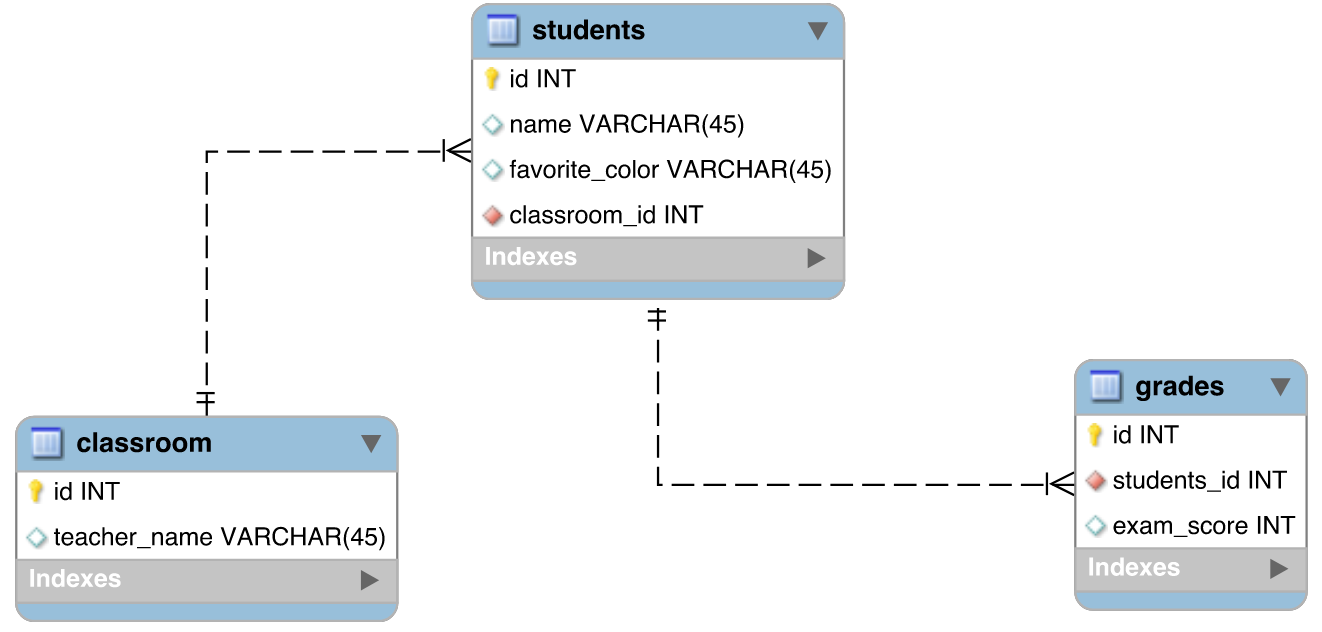
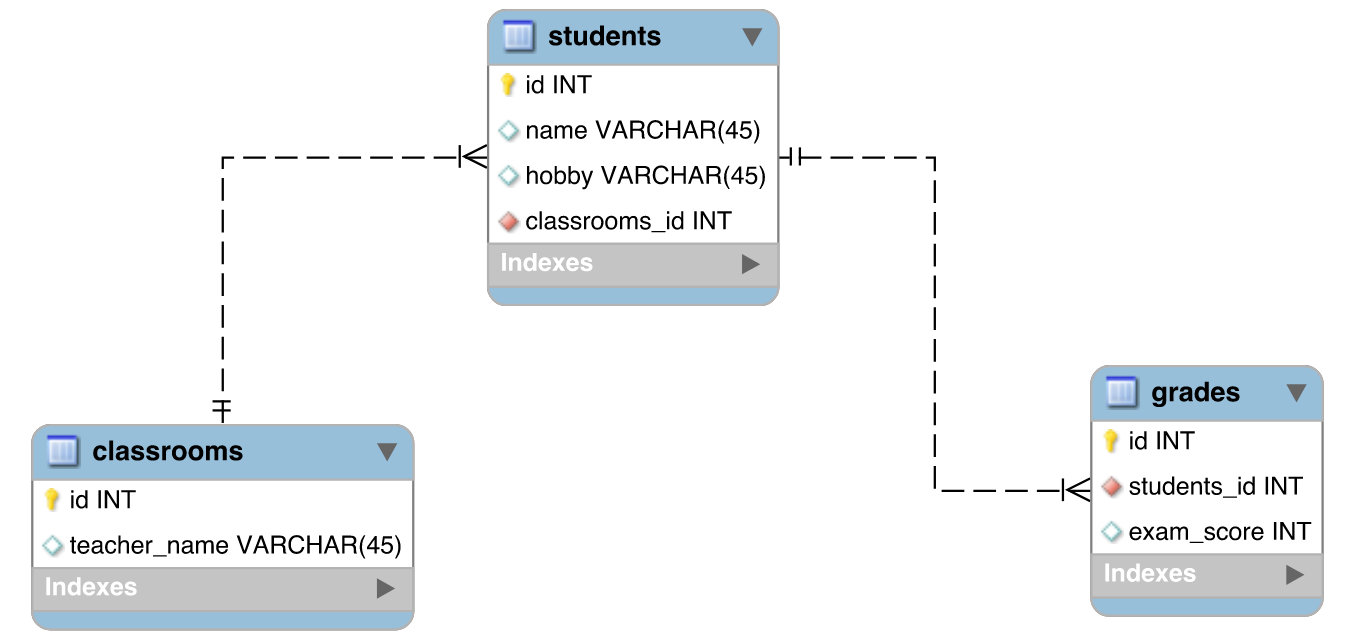
Work on SQL intro

diff --git a/_posts/python/2021-03-26-SQL_vs_NoSQL.md b/_posts/python/2021-03-26-SQL_vs_NoSQL.md
@@ -4,34 +4,40 @@ title: SQL vs. NoSQL databases in Python
 author: matt_sosna
 ---
 
-From ancient government, library, and medical records to present-day video and [IoT streams](https://en.wikipedia.org/wiki/Internet_of_things), we have always needed ways to efficiently store and retrieve data. Yesterday's filing cabinets have become today's computer [**databases**](https://www.oracle.com/database/what-is-database/), with two major paradigms for how to best organize data: the *structured* (SQL) versus *unstructured* (NoSQL) approach.
+From ancient government, library, and medical records to present-day video and [IoT streams](https://en.wikipedia.org/wiki/Internet_of_things), we have always needed ways to efficiently store and retrieve data. Yesterday's filing cabinets have become today's computer [**databases**](https://www.oracle.com/database/what-is-database/), with two major paradigms for how to best organize data: the *structured* (relational) versus *unstructured* (non-relational) approach.
 
 Databases are essential for any organization, so it's useful to wrap your head around where each type is useful. We'll start with a brief primer on the history and theory behind SQL and NoSQL. But memorizing abstract facts can only get you so far $-$ we'll then actually create each type of database in Python to get a hands-on intuition for how they work. Let's do it!
 
 ## A time series of databases
-Databases arrived shortly after businesses [began adopting computers in the 1950s](https://www.dataversity.net/brief-history-database-management/), but it wasn't until 1970 that **relational** databases appeared. The main idea with a relational database is to avoid duplicating data by storing it *only once*, with different aspects of that data stored in tables with formal *relationships.*
+### Relational databases
+Databases arrived shortly after businesses [began adopting computers in the 1950s](https://www.dataversity.net/brief-history-database-management/), but it wasn't until 1970 that **relational** databases appeared. The main idea with a relational database is to avoid duplicating data by storing it *only once*, with different aspects of that data stored in *tables* with formal *relationships.* The relevant data can then be extracted from different tables, filtered, and rearranged with queries in SQL, or [Structured Query Language](https://en.wikipedia.org/wiki/SQL).
 
-Say we're a school and are organizing our data. We have data on the students themselves, their grades, and their classrooms. We *could* have one giant table that looks something like this:
+Say we're a school and are organizing our data on the students, their grades, and their classrooms. We *could* have one giant table that looks like this:
 
-<img src="{{  site.baseurl  }}/images/projects/sql_v_nosql/data_table.png" loading="lazy" alt="Table of data">
+<img src="{{  site.baseurl  }}/images/projects/sql_v_nosql/main_table.png" loading="lazy" alt="Table of data">
 
-But notice how most of the cells are duplicated info. Because students have multiple exam scores, storing all the data in one table results in duplicating all the other info that we only need to list once. (Unless you really want to see four copies of Jerry's favorite color, his classroom ID, and his classroom teacher.)
+This is a pretty inefficient way to store data, though. Because students have multiple exam scores, **storing all the data in one table requires duplicating info we only need to list once,** like Jerry's hobby, classroom ID, and teacher. If you only have a handful of students, it's no big deal. But as the amount of data grows, all those duplicated values end up costing storage space and making it harder to extract the data you actually want from your table.
 
-If you only have a handful of students, it's no big deal. But as the amount of data grows, all those duplicated values will end up costing storage space and making it harder to extract the data you actually want from your table.
+Instead, it'd be far more efficient to break out this information into separate *tables*, then *relate* the info in the tables to one another. This is what our tables would look like:
 
-Instead, it'd be far more efficient to break out this information into separate *tables*, then *relate* the info in the tables to one another. Here is an [entity-relationship diagram](https://www.visual-paradigm.com/guide/data-modeling/what-is-entity-relationship-diagram/) for a simple relational database with our data in separate tables.
+<img src="{{  site.baseurl  }}/images/projects/sql_v_nosql/multi_table.png" loading="lazy" alt="Multiple tables">
+
+That's only 30 cells compared to 42 in the main table $-$ **a 28.5% improvement!** For this particular set of fields and tables, as we increase the number of students, say to 100 or 1,000 or 1,000,000, the improvement actually stabilizes at **38%.** That's more than a third less storage space just by rearranging the data!
+
+But it's not enough to just store the data in separate tables; we still need to model their relationships. We can show this with an [entity-relationship diagram](https://www.visual-paradigm.com/guide/data-modeling/what-is-entity-relationship-diagram/) like the one below. This diagram shows that one classroom consists of multiple students, and each student has multiple grades.
 
 <img src="{{  site.baseurl  }}/images/projects/sql_v_nosql/erd.png" loading="lazy" alt="Entity-Relationship Diagram">
+
+### Nonrelational databases
+SQL databases are great. However, relational databases operate on the [assumption of a single server](https://www.cockroachlabs.com/blog/history-of-databases-distributed-sql/). Painful to scale.
+
+Relational = vertical scaling (add more compute to the server). Nonrelational scaling = horizontal.
 
 
 NoSQL apparently only since 2009?
 > Johan Oskarsson had organised a meetup to discuss distributed non-relational databases. To popularise this meetup, he used a hashtag #NoSQL on twitter and this gave birth to NoSQL databases.
 
-How do you store data when it's too large too fit on a hard drive? How can you make it possible for multiple people to view *and modify* the data simultaneously, securely, and scalably? These are questions that were answered decades ago with
 
-Databases are the answer here.
-
-However, relational databases operate on the [assumption of a single server](https://www.cockroachlabs.com/blog/history-of-databases-distributed-sql/). Painful to scale.
 
 
 
